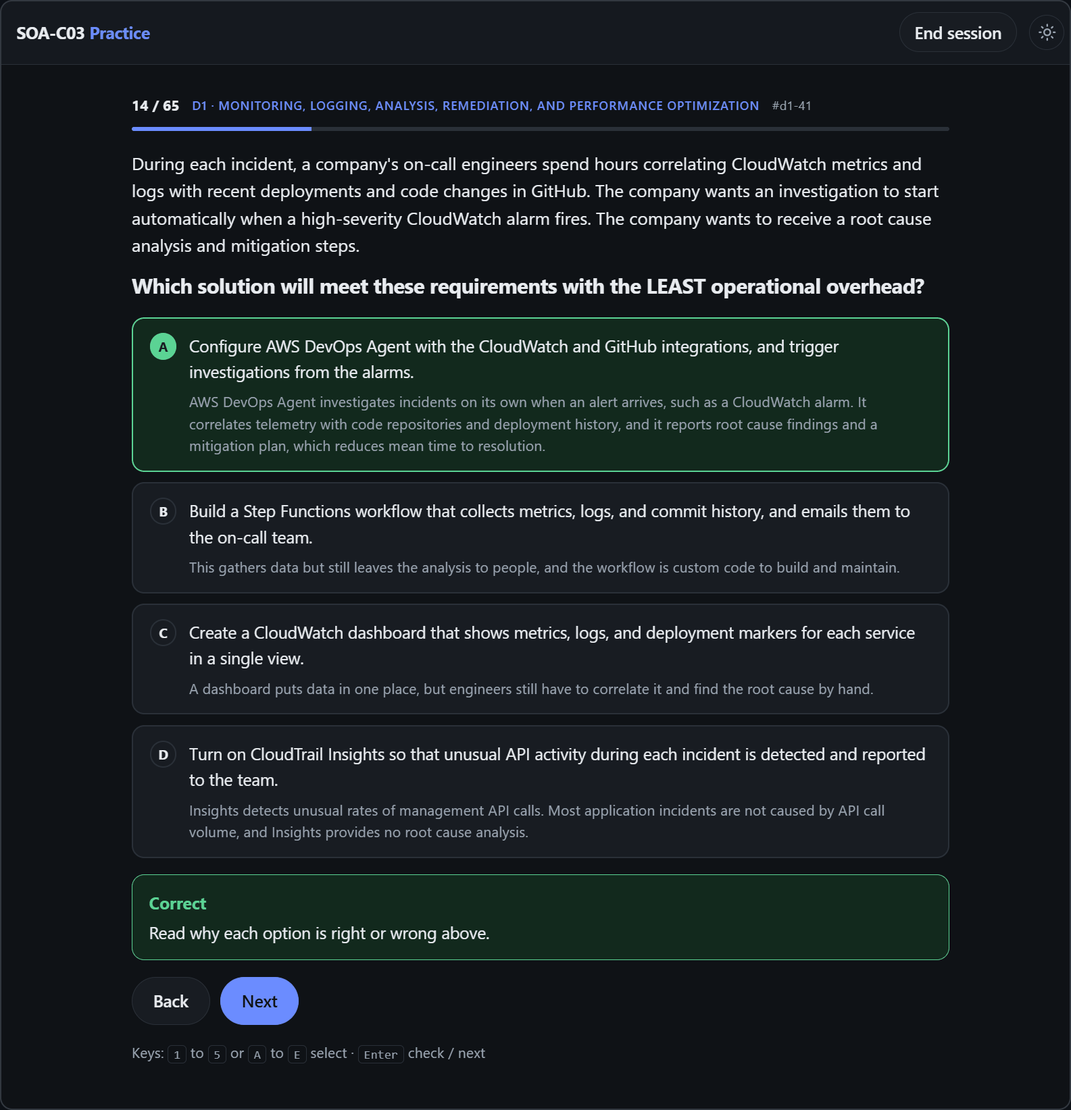
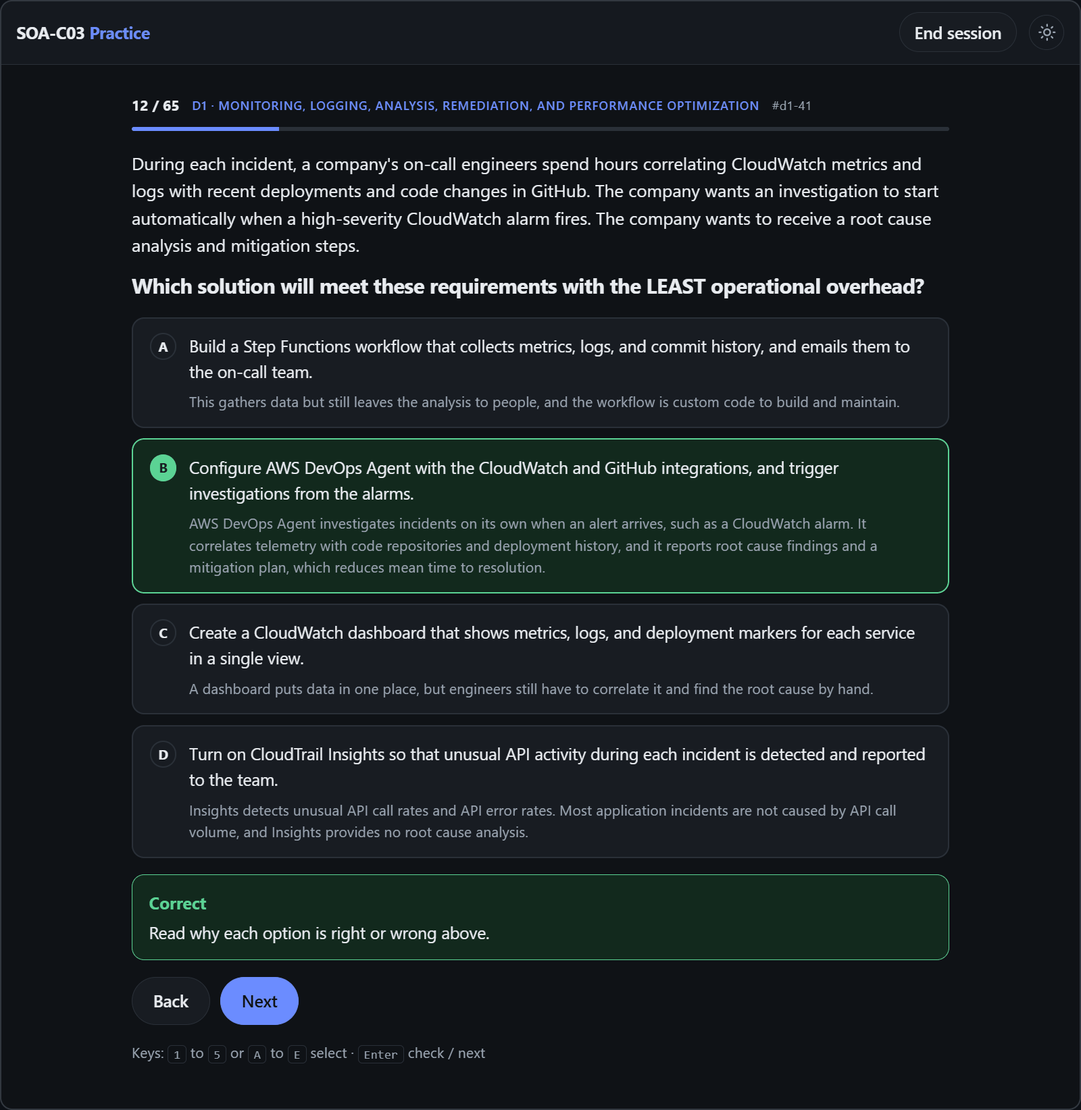
Fix facts found by a full check against AWS docs and update the review wording
An AI-run check compared all 325 questions with current AWS documentation:
304 verified, 19 fixed, and 2 price claims could not be confirmed. It edited
20 questions in total.

The fixes that change what students learn:
- d1-53: the 6-hour wait between EBS volume changes no longer exists. Wait for
  the completed state, with up to four changes in a rolling 24 hours.
- d1-45: an ALB 503 means no registered targets. If all targets are unhealthy,
  the load balancer fails open and still sends them traffic.
- d2-54: S3 Replication Time Control covers 99.9% of objects within 15 minutes,
  not 99.99%.

The site and README now describe this check accurately: AI-run, one main source
per question, and no human review. Retake the README question screenshots.

diff --git a/data/d1.js b/data/d1.js
@@ -58,7 +58,7 @@ window.QUESTIONS = (window.QUESTIONS || []).concat([
       "Enable detailed monitoring on the worker node instances, and build one CloudWatch dashboard for each namespace."],
   a: [0],
   r: ["The CloudWatch Observability add-on installs the CloudWatch agent and Fluent Bit as a managed EKS add-on. It turns on Container Insights with enhanced observability, which collects cluster, node, pod, and container metrics and sends container logs to CloudWatch Logs.",
-      "Running your own Prometheus server means patching, scaling, and storing data yourself, which is more effort than a managed add-on. Prometheus remote write also does not target CloudWatch directly.",
+      "Running your own Prometheus server means patching, scaling, and storing data yourself, which is more effort than a managed add-on.",
       "Control plane logs describe the Kubernetes API server, authenticator, and scheduler. They do not contain pod resource metrics or application container logs.",
       "Detailed monitoring gives node-level EC2 metrics only. EC2 cannot see the CPU and memory use of individual pods or containers."] },
 
@@ -229,7 +229,7 @@ window.QUESTIONS = (window.QUESTIONS || []).concat([
   a: [0],
   r: ["Object-level actions such as GetObject, PutObject, and DeleteObject are data events, which trails do not log by default. Logging data events for the bucket records the principal, source IP address, and time of each deletion.",
       "Versioning protects data by keeping a delete marker and earlier versions, but it does not record who made the request.",
-      "Insights detects unusual rates of management API calls. It does not log individual object-level calls or who made each one.",
+      "Insights detects unusual API call rates and API error rates. It does not log individual object-level calls or who made each one.",
       "Flow logs record IP traffic metadata only. They do not show API actions or IAM identities, and requests to S3 might not even pass through that VPC."] },
 
 { id: "d1-20", d: 1,
@@ -277,7 +277,7 @@ window.QUESTIONS = (window.QUESTIONS || []).concat([
   a: [0],
   r: ["Logs Insights automatically discovers fields in Lambda REPORT log lines, including @duration and @requestId. A query such as filter @type = \"REPORT\" | sort @duration desc | limit 20 returns the slowest invocations directly.",
       "This would work, but exporting the logs and setting up Athena is much more effort than one query on data that is already in CloudWatch Logs.",
-      "Lambda Insights collects data only after it is turned on, so it cannot show the past 24 hours. It also reports aggregates, not the request IDs of the slowest invocations.",
+      "Lambda Insights collects data only after it is turned on, so it cannot show the past 24 hours.",
       "A metric filter applies only to new log events and produces aggregated numbers. It cannot return the request IDs of individual invocations."] },
 
 { id: "d1-24", d: 1,
@@ -295,13 +295,13 @@ window.QUESTIONS = (window.QUESTIONS || []).concat([
 { id: "d1-25", d: 1,
   q: "A company stores debug logs in CloudWatch Logs with the retention setting Never expire. The logs are needed only for occasional investigations within 30 days, and nobody uses metric filters or alarms on them. CloudWatch Logs costs are growing every month.\n\nWhich combination of actions will reduce costs and still meet the requirements? (Select TWO.)",
   o: ["Set the retention period of the debug log groups to 30 days.",
-      "Use the Infrequent Access log class for new debug log groups.",
+      "Use the Essentials log class (formerly Infrequent Access) for new debug log groups.",
       "Turn on high-resolution storage for the debug log groups.",
       "Create a metric filter that counts debug lines per minute.",
       "Export the logs to S3 daily and keep the CloudWatch copy too."],
   a: [0, 1],
   r: ["Logs that never expire keep adding storage cost. A 30-day retention period deletes older events automatically and still covers the investigation window.",
-      "The Infrequent Access log class has a lower ingestion price and still supports Logs Insights queries. It does not support features such as metric filters, which the team does not use. The class is chosen when the log group is created.",
+      "The Essentials log class (formerly Infrequent Access) has a lower ingestion price and still supports most Logs Insights query commands. It does not support features such as metric filters, which the team does not use. The class is chosen when the log group is created.",
       "There is no high-resolution storage setting for log groups. High resolution applies to metrics, and it would not lower costs.",
       "A metric filter creates a custom metric, which adds cost and does not reduce log storage.",
       "Exporting adds S3 storage without removing the CloudWatch copy, so total cost goes up."] },
@@ -457,7 +457,7 @@ window.QUESTIONS = (window.QUESTIONS || []).concat([
       "Add an aws:executeScript step that emails the database team and waits for a reply before it continues.",
       "Add an aws:assertAwsResourceProperty step that checks whether the database team signed in that day."],
   a: [0],
-  r: ["The aws:approve action pauses an Automation run until the required number of designated approvers approve or reject it. Approvers can be IAM users, roles, or groups, and an SNS topic can notify them that an approval is waiting.",
+  r: ["The aws:approve action pauses an Automation run until the required number of designated approvers approve or reject it. Approvers can be IAM users or roles, and an SNS topic can notify them that an approval is waiting.",
       "A sleep step only delays the restart. The restart would still happen without anyone approving it.",
       "Scripts in aws:executeScript have a short time limit and cannot wait for an email reply. Building custom approval logic is unnecessary when aws:approve exists.",
       "This step checks a property of an AWS resource. Whether someone signed in is not an approval of the restart."] },
@@ -496,7 +496,7 @@ window.QUESTIONS = (window.QUESTIONS || []).concat([
   r: ["AWS DevOps Agent investigates incidents on its own when an alert arrives, such as a CloudWatch alarm. It correlates telemetry with code repositories and deployment history, and it reports root cause findings and a mitigation plan, which reduces mean time to resolution.",
       "This gathers data but still leaves the analysis to people, and the workflow is custom code to build and maintain.",
       "A dashboard puts data in one place, but engineers still have to correlate it and find the root cause by hand.",
-      "Insights detects unusual rates of management API calls. Most application incidents are not caused by API call volume, and Insights provides no root cause analysis."] },
+      "Insights detects unusual API call rates and API error rates. Most application incidents are not caused by API call volume, and Insights provides no root cause analysis."] },
 
 { id: "d1-42", d: 1,
   q: "A CloudOps engineer uses Kiro to write AWS CloudFormation templates and remediation scripts. Team standards require CostCenter and Owner tags on every resource, and all scripts must use the company's logging library. The engineer does not want to repeat these standards in every chat session.\n\nWhich Kiro feature should the engineer use?",
@@ -536,12 +536,12 @@ window.QUESTIONS = (window.QUESTIONS || []).concat([
 
 { id: "d1-45", d: 1,
   q: "After a deployment, users receive HTTP 503 errors from an Application Load Balancer. The HTTPCode_ELB_503_Count metric is high, and HTTPCode_Target_5XX_Count is 0. The HealthyHostCount metric for the target group is 0.\n\nWhat is the MOST likely cause?",
-  o: ["The target group has no healthy registered targets to route requests to.",
+  o: ["The target group has no registered targets to route requests to.",
       "The application on the targets is throwing unhandled exceptions.",
       "The targets are taking longer than the idle timeout to respond.",
       "The ALB security group blocks inbound HTTPS from the internet."],
   a: [0],
-  r: ["An ELB 503 error means that the load balancer itself could not send the request to a target, and a HealthyHostCount of 0 confirms that no targets are available. The deployment most likely broke the health checks or deregistered the targets.",
+  r: ["An ELB 503 error means that the target group has no registered targets, and a HealthyHostCount of 0 fits that. The deployment most likely deregistered the targets. If the targets were registered but all unhealthy, the ALB would fail open and still send them requests.",
       "Application errors would appear as target 5XX responses, but HTTPCode_Target_5XX_Count is 0.",
       "Responses that take too long cause 504 Gateway Timeout errors from the load balancer, not 503 errors.",
       "If the security group blocked clients, their requests would never reach the load balancer, so it could not return a 503 error."] },
@@ -607,13 +607,13 @@ window.QUESTIONS = (window.QUESTIONS || []).concat([
       "Subnets are a network construct. Without a placement group, there is no control over which racks the instances share."] },
 
 { id: "d1-51", d: 1,
-  q: "A company has hundreds of 1 TiB gp2 EBS volumes. Each volume delivers its baseline of 3,000 IOPS, which the workloads need. The company wants to reduce storage costs without downtime and without reducing performance.\n\nWhat should a CloudOps engineer do?",
+  q: "A company has hundreds of 1,000 GiB gp2 EBS volumes. Each volume delivers its baseline of 3,000 IOPS, which the workloads need. The company wants to reduce storage costs without downtime and without reducing performance.\n\nWhat should a CloudOps engineer do?",
   o: ["Change each volume to gp3 in place by using Elastic Volumes.",
       "Create snapshots, and restore each one as a new sc1 volume.",
       "Change each volume to io2 in place by using Elastic Volumes.",
       "Stop each instance, and attach a new st1 volume as the root."],
   a: [0],
-  r: ["gp3 costs about 20% less per GiB than gp2 and includes 3,000 IOPS and 125 MiB/s at any size. Elastic Volumes changes the volume type while the volume stays attached and in use, so there is no downtime. More IOPS or throughput can be provisioned later if a workload needs it.",
+  r: ["gp3 costs about 20% less per GiB than gp2 and includes 3,000 IOPS and 125 MiB/s at any size. Elastic Volumes changes the volume type while the volume stays attached and in use, so there is no downtime. If you set no performance values, EBS matches the higher of the source gp2 performance and the gp3 baseline.",
       "sc1 is cold HDD storage with low throughput, and it is not designed for random IOPS, so performance would drop sharply.",
       "io2 provides provisioned IOPS and high durability, but it costs more than gp2 for this workload.",
       "st1 cannot be used as a boot volume, and HDD volumes do not suit random I/O."] },
@@ -631,16 +631,16 @@ window.QUESTIONS = (window.QUESTIONS || []).concat([
       "st1 is an HDD volume for large sequential reads. It has higher latency and fewer IOPS, which does not suit a database."] },
 
 { id: "d1-53", d: 1,
-  q: "A CloudOps engineer increased the size of an io2 EBS volume 2 hours ago. The engineer now tries to raise the volume's provisioned IOPS, but the request fails with an error that says the volume cannot be modified.\n\nWhat should the engineer do?",
-  o: ["Wait until 6 hours have passed since the last modification, and then submit the IOPS change.",
+  q: "A CloudOps engineer increased the size of an io2 EBS volume 2 hours ago. The engineer now tries to raise the volume's provisioned IOPS, but the request fails with an error that says the volume cannot be modified. The earlier modification is still in the optimizing state.\n\nWhat should the engineer do?",
+  o: ["Wait until the earlier modification reaches the completed state, and then submit the IOPS change.",
       "Detach the volume from the instance, and then change the IOPS while the volume is not in use.",
       "Delete the volume's snapshots, because EBS blocks changes to volumes that have recent snapshots.",
       "Change the volume type to gp2 first, because io2 volumes cannot change their IOPS after creation."],
   a: [0],
-  r: ["After an Elastic Volumes modification, you must wait at least 6 hours, and the volume must be in the in-use or available state, before you can modify the same volume again.",
-      "Elastic Volumes changes work while a volume is attached and in use. Detaching it does not remove the 6-hour wait.",
+  r: ["A modification must reach the completed state before you can start another one on the same volume. A volume can be modified up to four times in a rolling 24-hour period, so the IOPS change can follow as soon as the size change completes.",
+      "Elastic Volumes changes work while a volume is attached and in use. Detaching it does not cancel a modification that is still in progress.",
       "Snapshots do not block volume modifications, and deleting them removes backups.",
-      "io2 volumes support changes to provisioned IOPS, and the same wait period would apply to a type change."] },
+      "io2 volumes support changes to provisioned IOPS, and a type change is also a modification that has to wait for the earlier one."] },
 
 { id: "d1-54", d: 1,
   q: "During a disaster recovery test, a team creates a large EBS volume from a snapshot for a database. The database is slow for several hours because each block loads from the snapshot the first time that it is read. New volumes must deliver full performance as soon as they are created.\n\nWhat should a CloudOps engineer do?",

diff --git a/data/d2.js b/data/d2.js
@@ -419,7 +419,7 @@ window.QUESTIONS = (window.QUESTIONS || []).concat([
       "Update the Auto Scaling group to remove the impaired zone's subnet, and add the subnet back after the event.",
       "Lower the health check thresholds so that targets in the impaired zone are marked unhealthy automatically."],
   a: [0],
-  r: ["A zonal shift moves traffic for a supported resource, such as a load balancer, away from one Availability Zone for a duration that you set. It works even when health checks pass, changes no infrastructure, and can be canceled or allowed to expire to restore traffic. The other zones need enough capacity to absorb the load.",
+  r: ["A zonal shift moves traffic for a supported resource, such as a load balancer, away from one Availability Zone for a duration that you set. It works even when health checks pass, changes no infrastructure, and can be canceled or allowed to expire to restore traffic. The load balancer must be opted in to zonal shift beforehand, and the other zones need enough capacity to absorb the load.",
       "Deregistering and registering targets by hand is slow and error prone during an incident, and it must be undone carefully.",
       "Changing the group's subnets terminates and relaunches instances, which is a slow infrastructure change.",
       "Lower thresholds affect every zone and may not catch the problem if checks still succeed. They also stay in place after the event."] },
@@ -559,13 +559,13 @@ window.QUESTIONS = (window.QUESTIONS || []).concat([
       "A new replica copies the current data, which already has the rows deleted."] },
 
 { id: "d2-47", d: 2,
-  q: "A team runs an Aurora MySQL cluster for a test environment, and testers often corrupt the data. Restoring from a snapshot takes about an hour each time. The team wants to return the cluster to its state from a few minutes earlier, in place, within minutes.\n\nWhich feature should a CloudOps engineer turn on?",
+  q: "A team runs an Aurora MySQL cluster for a test environment, and testers often corrupt the data. Restoring from a snapshot takes about an hour each time. The team wants to return the cluster to its state from a few minutes earlier, in place, within minutes.\n\nWhich feature should a CloudOps engineer use?",
   o: ["Aurora Backtrack with a target backtrack window",
       "Aurora cloning of the cluster before each test",
       "Aurora Global Database with a secondary Region",
       "Aurora Auto Scaling for the Aurora Replicas"],
   a: [0],
-  r: ["Backtrack rewinds an Aurora MySQL cluster in place to an earlier time within the backtrack window, usually in minutes, without restoring from a backup or creating a new cluster.",
+  r: ["Backtrack rewinds an Aurora MySQL cluster in place to an earlier time within the backtrack window, usually in minutes, without restoring from a backup or creating a new cluster. It can be turned on only when a cluster is created or restored from a snapshot, not on an existing cluster.",
       "Cloning creates a new copy-on-write cluster. It helps create test copies, but it does not rewind the existing cluster in place.",
       "A global database replicates every change, including the corruption, to the secondary Region.",
       "Auto Scaling adds or removes replicas for read capacity. It does not recover data."] },
@@ -645,7 +645,7 @@ window.QUESTIONS = (window.QUESTIONS || []).concat([
       "MFA delete makes deletions harder, but the root user can still delete versions, and it does not set a retention period."] },
 
 { id: "d2-54", d: 2,
-  q: "A company turns on S3 Cross-Region Replication from a bucket in us-east-1 to a bucket in us-west-2 for disaster recovery. New objects replicate correctly, but the 2 million objects that existed before replication was configured are missing from the destination. The company also needs 99.99% of new objects replicated within 15 minutes.\n\nWhich combination of actions will meet these requirements? (Select TWO.)",
+  q: "A company turns on S3 Cross-Region Replication from a bucket in us-east-1 to a bucket in us-west-2 for disaster recovery. New objects replicate correctly, but the 2 million objects that existed before replication was configured are missing from the destination. The company also needs 99.9% of new objects replicated within 15 minutes.\n\nWhich combination of actions will meet these requirements? (Select TWO.)",
   o: ["Run an S3 Batch Replication job to replicate the existing objects.",
       "Turn on S3 Replication Time Control for the replication rule.",
       "Turn on S3 Transfer Acceleration for the source bucket.",
@@ -653,7 +653,7 @@ window.QUESTIONS = (window.QUESTIONS || []).concat([
       "Add a lifecycle rule that copies existing objects to us-west-2."],
   a: [0, 1],
   r: ["Replication rules apply only to objects written after the rule is created. S3 Batch Replication replicates existing objects, and objects that failed to replicate before, on demand.",
-      "Replication Time Control is designed to replicate 99.99% of new objects within 15 minutes, backed by a service level agreement, and it adds replication metrics and notifications.",
+      "Replication Time Control replicates most new objects in seconds and 99.9% of them within 15 minutes, backed by a service level agreement, and it adds replication metrics and notifications.",
       "Transfer Acceleration speeds up client transfers to a bucket. It does not affect replication.",
       "Changing the versioning state does not replicate existing objects, and replication requires versioning to stay turned on.",
       "Lifecycle rules transition or expire objects. They cannot copy objects to another Region."] },
@@ -671,7 +671,7 @@ window.QUESTIONS = (window.QUESTIONS || []).concat([
       "Deduplication saves storage by removing duplicate data. It does not keep earlier versions of files."] },
 
 { id: "d2-56", d: 2,
-  q: "For disaster recovery, a company copies the AMIs of its application servers from us-east-1 to us-west-2. The AMIs' EBS snapshots are encrypted with a customer managed KMS key that is in us-east-1. The copies must also be encrypted.\n\nWhat must a CloudOps engineer specify when copying the AMIs?",
+  q: "For disaster recovery, a company copies the AMIs of its application servers from us-east-1 to us-west-2. The AMIs' EBS snapshots are encrypted with a customer managed KMS key that is in us-east-1. The copies must be encrypted with a customer managed key.\n\nWhat must a CloudOps engineer specify when copying the AMIs?",
   o: ["A KMS key in us-west-2 to encrypt the copied snapshots, because KMS keys are Regional.",
       "The same KMS key ARN from us-east-1, because AMI copies keep the source Region's key.",
       "No key at all, because AMI copies across Regions are always left unencrypted by default.",

diff --git a/data/d3.js b/data/d3.js
@@ -357,7 +357,7 @@ window.QUESTIONS = (window.QUESTIONS || []).concat([
       "Set Region concurrency to parallel and failure tolerance to 100%.",
       "Create 20 StackSets with 10 accounts each, and run them in turn."],
   a: [0],
-  r: ["Operation preferences control rollout speed and safety. Maximum concurrent accounts limits how many accounts are updated at the same time in each Region, and failure tolerance sets how many failures are allowed in a Region before the operation stops.",
+  r: ["Operation preferences control rollout speed and safety. Maximum concurrent accounts limits how many accounts are updated at the same time in each Region, and failure tolerance sets how many failures are allowed in a Region before the operation stops. In the default strict mode, the actual concurrency starts at the lower of 10 and the failure tolerance plus 1, which stays within the limit.",
       "100% concurrency updates every account at once, and a tolerance of 0 stops after the first failure, so neither requirement is met.",
       "A tolerance of 100% never stops the rollout, and parallel Regions do not limit how many accounts are updated at once.",
       "Twenty StackSets add a lot of management effort, and they would still need operation preferences to stop on failures."] },
@@ -501,7 +501,7 @@ window.QUESTIONS = (window.QUESTIONS || []).concat([
       "Add a cron job to each instance's user data that runs the operating system package update command.",
       "Build a new AMI each Sunday with the latest patches, and replace every instance in the organization."],
   a: [0],
-  r: ["Patch policies, created through Quick Setup, configure Patch Manager scan and install schedules and patch baselines across an organization's accounts and Regions from one place. New accounts and instances can be included automatically.",
+  r: ["Patch policies, created through Quick Setup, configure Patch Manager scan and install schedules and patch baselines across an organization's accounts and Regions from one place.",
       "This works, but it must be built and maintained in 120 account and Region combinations.",
       "Cron jobs on each instance are hard to manage, give no compliance reporting, and do not use approved baselines.",
       "Replacing thousands of instances every week is disruptive and not feasible for every workload."] },
@@ -564,7 +564,7 @@ window.QUESTIONS = (window.QUESTIONS || []).concat([
       "Open inbound port 443 on each server so that Systems Manager can push commands to the servers."],
   a: [0],
   r: ["A hybrid activation creates an activation code and ID that are tied to an IAM service role. Installing SSM Agent with them registers each server as a managed node, so Run Command, Patch Manager, and the other tools work the same way as they do on EC2.",
-      "Instance profiles exist only for EC2 instances. On-premises servers get credentials through a hybrid activation or IAM Roles Anywhere.",
+      "Instance profiles exist only for EC2 instances. On-premises servers get credentials through a hybrid activation.",
       "The CloudWatch agent collects metrics and logs. It does not run Systems Manager commands.",
       "SSM Agent makes outbound HTTPS connections to Systems Manager. Systems Manager does not push commands through inbound ports."] },
 

diff --git a/data/d4.js b/data/d4.js
@@ -272,12 +272,12 @@ window.QUESTIONS = (window.QUESTIONS || []).concat([
 
 { id: "d4-23", d: 4,
   q: "An administrator edited an SCP that AWS Control Tower created for a governed OU directly in the AWS Organizations console. The Control Tower dashboard now reports drift for the OU.\n\nHow should a CloudOps engineer resolve the drift?",
-  o: ["Re-register the OU in Control Tower, or repair the landing zone, so that the original control is restored.",
+  o: ["Re-register the OU in Control Tower, or reset the landing zone, so that the original control is restored.",
       "Delete the Control Tower landing zone, and set up a new landing zone from the beginning in the account.",
       "Edit the drifted SCP again in the Organizations console until the dashboard shows that it is compliant.",
       "Turn off every control on the OU, and then turn them all back on by hand one at a time from Organizations."],
   a: [0],
-  r: ["Control Tower manages the SCPs for its controls, so changing them outside Control Tower causes drift. Re-registering the OU, or repairing the landing zone, reapplies the expected configuration. Changes to guardrails should be made through Control Tower.",
+  r: ["Control Tower manages the SCPs for its controls, so changing them outside Control Tower causes drift. Re-registering the OU, or resetting the landing zone, reapplies the expected configuration. Changes to guardrails should be made through Control Tower.",
       "Deleting the landing zone is disruptive and unnecessary for this kind of drift.",
       "Hand edits are what caused the drift, and they might not match what Control Tower expects.",
       "Controls must be managed through Control Tower, not through Organizations, and turning them off removes protection."] },
@@ -459,7 +459,7 @@ window.QUESTIONS = (window.QUESTIONS || []).concat([
       "Create an encrypted read replica of the unencrypted DB instance, and then promote that read replica to primary.",
       "Turn on default EBS encryption in the Region so that the DB instance's storage becomes encrypted."],
   a: [0],
-  r: ["Encryption cannot be turned on for an existing unencrypted RDS DB instance. Copying a snapshot with encryption and restoring it creates an encrypted instance. The application then moves to the new endpoint, so the change needs a planned cutover.",
+  r: ["Encryption cannot be turned on for an existing unencrypted RDS DB instance. Copying a snapshot with encryption and restoring it creates an encrypted instance. The application then moves to the new endpoint, so the change needs a planned cutover. An RDS blue/green deployment is a newer way to encrypt an unencrypted DB instance.",
       "RDS does not support turning on encryption for an existing unencrypted DB instance.",
       "RDS cannot create an encrypted read replica from an unencrypted DB instance.",
       "EBS encryption by default applies to EBS volumes that you create. It does not change RDS storage."] },

diff --git a/data/d5.js b/data/d5.js
@@ -508,7 +508,7 @@ window.QUESTIONS = (window.QUESTIONS || []).concat([
       "An AWS WAF rule group that rewrites URLs and adds the response headers"],
   a: [0],
   r: ["CloudFront Functions run lightweight JavaScript at edge locations on viewer request and viewer response events, with sub-millisecond startup and very high scale, at a lower price than Lambda@Edge. Redirects and header changes are typical uses. A response headers policy can also add security headers without code.",
-      "Lambda@Edge suits heavier logic, such as network calls, but it costs more and runs in Regional edge caches for origin events, so it is not the cheapest choice for simple logic.",
+      "Lambda@Edge suits heavier logic, such as network calls, but it costs more, so it is not the cheapest choice for simple logic.",
       "Sending every request to an origin function adds latency and cost and removes the benefit of edge caching.",
       "AWS WAF filters requests. It does not rewrite URLs or add response headers to responses."] },
 
@@ -629,7 +629,7 @@ window.QUESTIONS = (window.QUESTIONS || []).concat([
       "Add a geo restriction so that only users near the origin can call the endpoint.",
       "Replace the ALB origin with an S3 bucket that serves the reporting endpoint."],
   a: [0],
-  r: ["CloudFront waits for the origin response timeout, 30 seconds by default, before it gives up and returns 504 Gateway Timeout. Raising the timeout above 45 seconds (values above 60 seconds need a quota increase) lets the report finish. Making the report asynchronous is a better long-term fix.",
+  r: ["CloudFront waits for the origin response timeout, 30 seconds by default, before it gives up and returns 504 Gateway Timeout. Raising the timeout above 45 seconds (values above 120 seconds need a quota increase) lets the report finish. Making the report asynchronous is a better long-term fix.",
       "TTL affects caching of successful responses. It does not let slow requests finish.",
       "Distance to the origin is not the cause. The origin itself takes 45 seconds.",
       "S3 cannot run the report generation logic."] },

diff --git a/app.js b/app.js
@@ -131,7 +131,7 @@ function info() {
     </ul>
     <h2 class="sub">How the questions are written</h2>
     <p>Every question is original and written against the public exam guide. None come from the real exam, paid courses, or dumps. Each one is a hands-on operations scenario: what you would configure, check, or fix, and why the other options fall short. Most questions test long-standing operations skills, and a few cover newer services that the exam guide names.</p>
-    <p>The questions were drafted with AI help and reviewed against the exam guide. The newest services and the facts most likely to change were checked against current AWS documentation, but not every question has been checked that way, so mistakes are possible. This is practice, not a predictor of your exam result. For the closest look at real exam style, use the Official Practice Question Set linked above.</p>
+    <p>The questions were drafted with AI help. An AI-run check then compared each question with current AWS documentation, using one main source per question, and fixed what it found. No person has reviewed them, so mistakes are possible. This is practice, not a predictor of your exam result. For the closest look at real exam style, use the Official Practice Question Set linked above.</p>
     <p>The whole question bank is open source on <a href="${REPO}" target="_blank" rel="noopener">GitHub</a>.</p>
     <p>Think a question is wrong? <a href="${REPO}/issues/new/choose" target="_blank" rel="noopener">Report it</a> with the question ID shown above each question.</p>
     <h2 class="sub">Why it's free</h2>

diff --git a/README.md b/README.md
@@ -61,7 +61,7 @@ Good SOA-C03 practice material usually sits behind a paywall, and dumps of real 
 
 Every question is original and written against the public [SOA-C03 exam guide](https://docs.aws.amazon.com/aws-certification/latest/sysops-administrator-associate-03/sysops-administrator-associate-03.html), covering every task and skill in all five domains. None come from the real exam, paid courses, or dumps. Each one has a short operations scenario, a clear requirement, and options of similar length where every wrong answer is a plausible action that fails one requirement. The right answer is not the longest option, and `check.js` enforces that on every change. A recently launched feature is the right answer only where the exam guide names it. Otherwise the question tests the standard approach, and the explanation mentions the newer option.
 
-The questions were drafted with AI help and reviewed against the exam guide. The newest services and the facts most likely to change were checked against current AWS documentation, but not every question has been checked that way, so mistakes are possible.
+The questions were drafted with AI help. An AI-run check then compared each question with current AWS documentation, using one main source per question, and fixed what it found. No person has reviewed them, so mistakes are possible.
 
 This is practice, not a predictor of your exam result. For the closest look at real exam style, use AWS's Official Practice Question Set, linked below.
 
